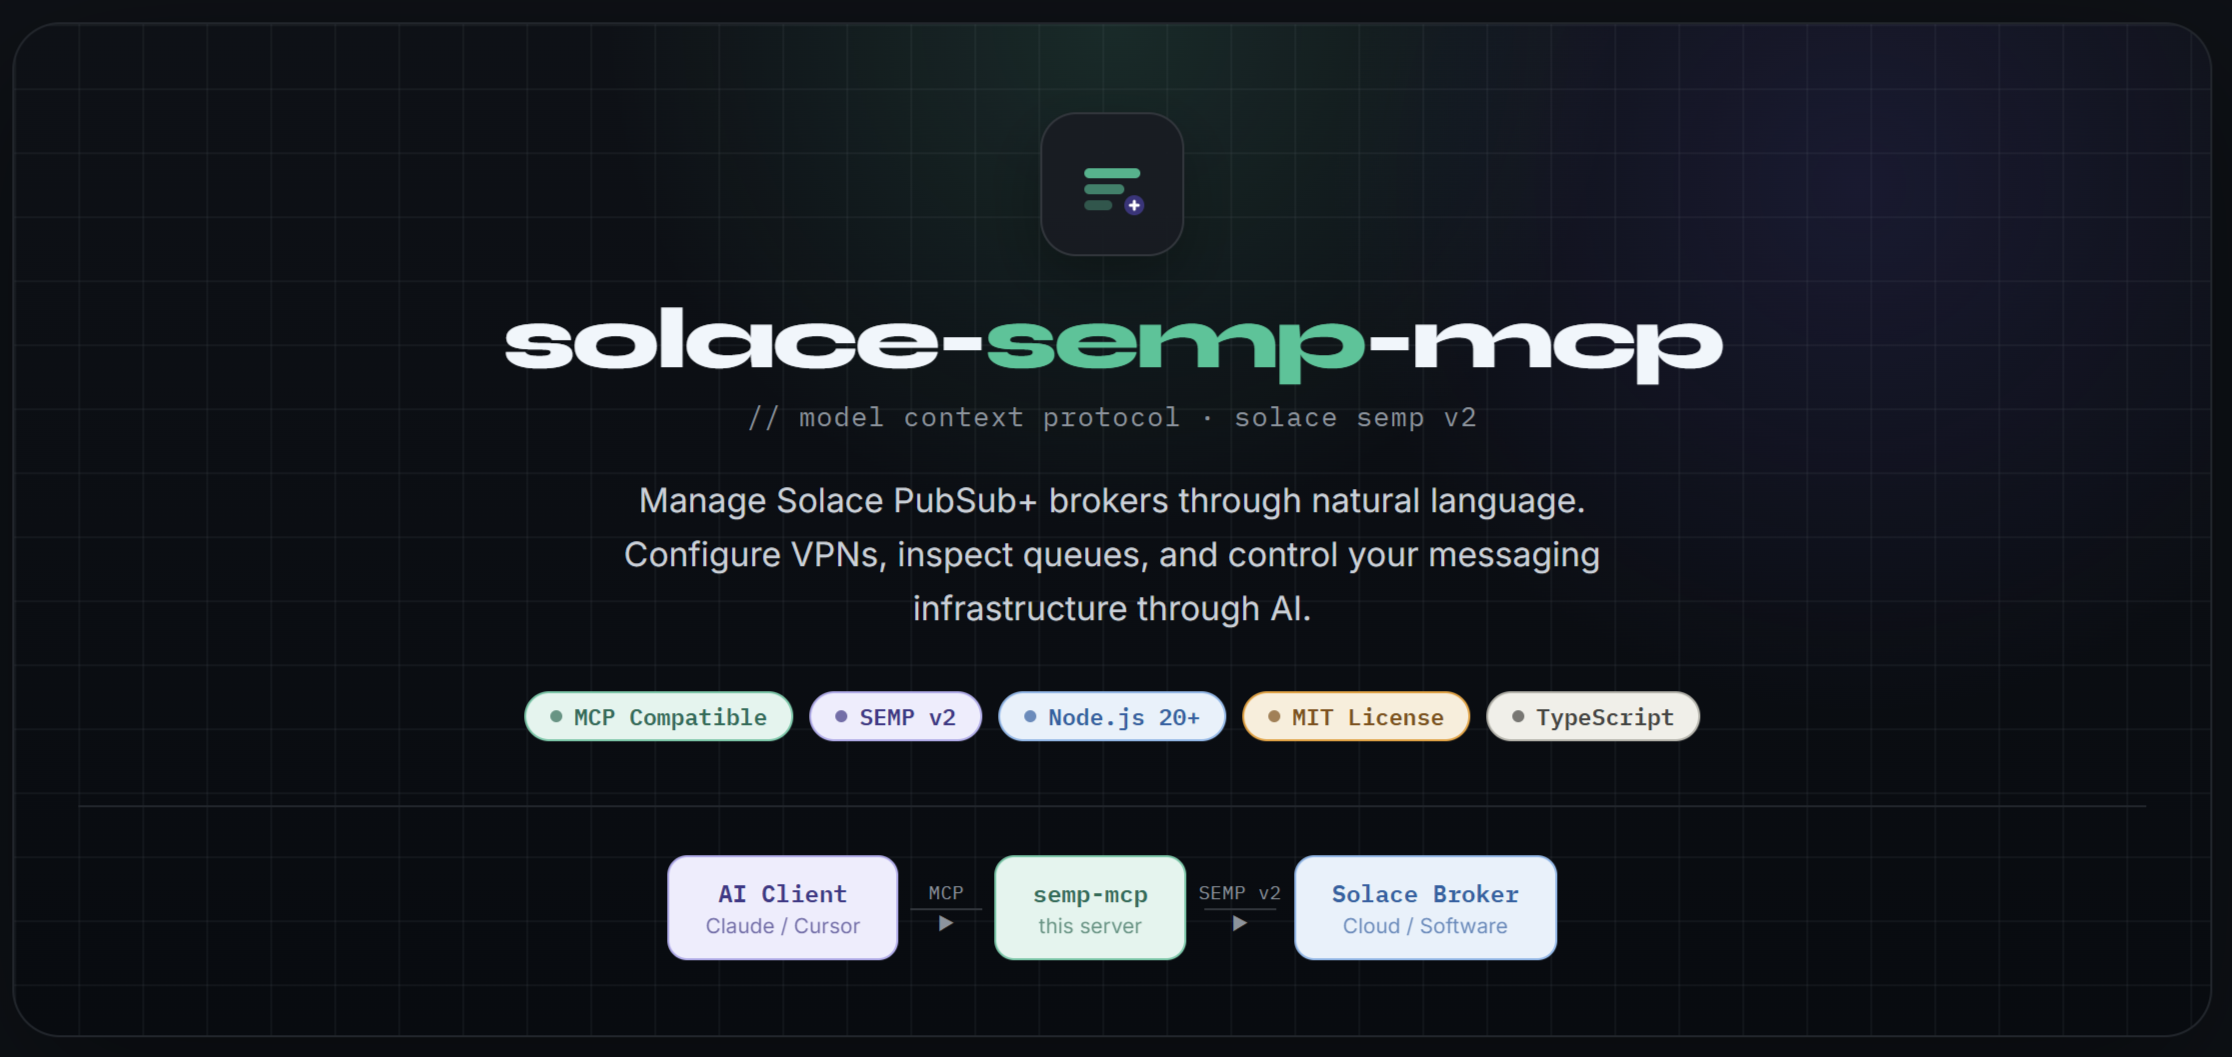
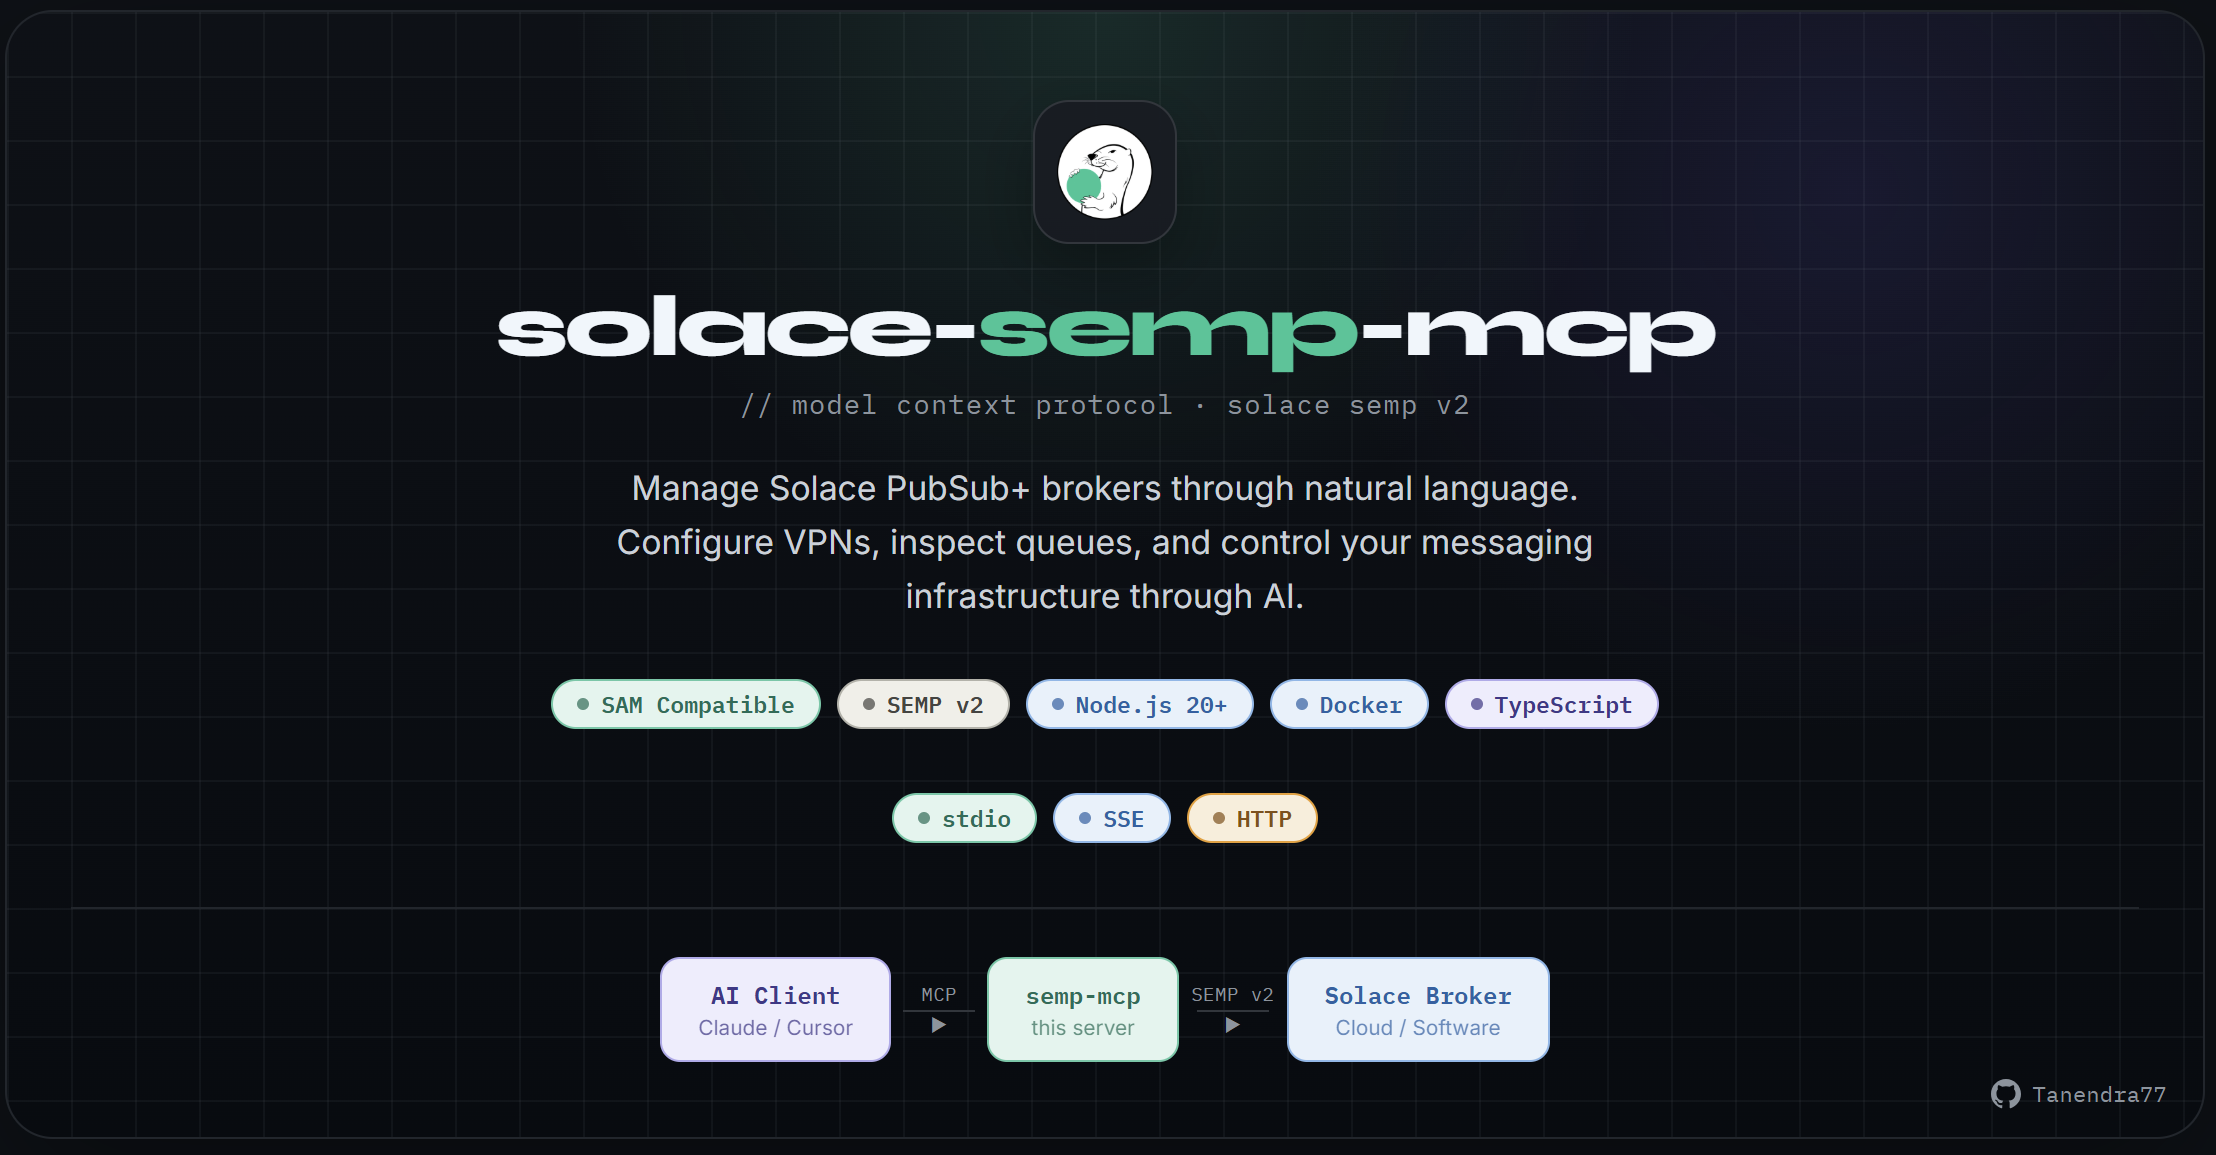
assets: refresh project header artwork

diff --git a/assets/header.html b/assets/header.html
@@ -44,6 +44,23 @@
     box-shadow: 0 12px 30px rgba(0, 0, 0, 0.28);
   }
   .icon-wrap svg { width: 36px; height: 36px; }
+  .icon-wrap .solly-pang { width: 48px; height: 48px; object-fit: contain; }
+  .gh-link {
+    position: absolute;
+    bottom: 14px;
+    right: 18px;
+    z-index: 2;
+    display: inline-flex;
+    align-items: center;
+    gap: 6px;
+    color: #8b949e;
+    font-family: 'IBM Plex Mono', monospace;
+    font-size: 0.7rem;
+    text-decoration: none;
+    transition: color 0.18s;
+  }
+  .gh-link:hover { color: #f0f6fc; }
+  .gh-link svg { width: 15px; height: 15px; fill: currentColor; }
   h1 {
     position: relative;
     z-index: 1;
@@ -165,23 +182,22 @@
 <div class="hero">
   <div class="grid-bg"></div>
   <div class="icon-wrap">
-    <svg viewBox="0 0 36 36" fill="none" xmlns="http://www.w3.org/2000/svg">
-      <rect x="4" y="10" width="28" height="5" rx="2.5" fill="#00C895" opacity=".9"/>
-      <rect x="4" y="18" width="20" height="5" rx="2.5" fill="#00C895" opacity=".6"/>
-      <rect x="4" y="26" width="14" height="5" rx="2.5" fill="#00C895" opacity=".35"/>
-      <circle cx="29" cy="28.5" r="5" fill="#3C3489" opacity=".9"/>
-      <path d="M27 28.5h4M29 26.5v4" stroke="white" stroke-width="1.5" stroke-linecap="round"/>
-    </svg>
+    <img class="solly-pang" src="solly-logo.png" alt="Solly" />
   </div>
   <h1>solace-<span>semp</span>-mcp</h1>
   <div class="mono">// model context protocol · solace semp v2</div>
   <p class="tagline">Manage Solace PubSub+ brokers through natural language. Configure VPNs, inspect queues, and control your messaging infrastructure through AI.</p>
   <div class="badges">
-    <span class="badge green"><span class="dot"></span>MCP Compatible</span>
-    <span class="badge purple"><span class="dot"></span>SEMP v2</span>
+    <span class="badge green"><span class="dot"></span>SAM Compatible</span>
+    <span class="badge gray"><span class="dot"></span>SEMP v2</span>
     <span class="badge blue"><span class="dot"></span>Node.js 20+</span>
-    <span class="badge amber"><span class="dot"></span>MIT License</span>
-    <span class="badge gray"><span class="dot"></span>TypeScript</span>
+    <span class="badge blue"><span class="dot"></span>Docker</span>
+    <span class="badge purple"><span class="dot"></span>TypeScript</span>
+  </div>
+  <div class="badges">
+    <span class="badge green"><span class="dot"></span>stdio</span>
+    <span class="badge blue"><span class="dot"></span>SSE</span>
+    <span class="badge amber"><span class="dot"></span>HTTP</span>
   </div>
   <div class="arch">
     <div class="node ai">AI Client<div class="node-sub">Claude / Cursor</div></div>
@@ -190,4 +206,8 @@
     <div class="arrow"><div class="arrow-label">SEMP v2</div><div class="arrow-line"></div><div class="arrow-head">▶</div></div>
     <div class="node broker">Solace Broker<div class="node-sub">Cloud / Software</div></div>
   </div>
+  <a class="gh-link" href="https://github.com/Tanendra77" target="_blank" rel="noopener">
+    <svg viewBox="0 0 24 24" xmlns="http://www.w3.org/2000/svg"><path d="M12 0C5.37 0 0 5.37 0 12c0 5.3 3.438 9.8 8.205 11.385.6.113.82-.258.82-.577 0-.285-.01-1.04-.015-2.04-3.338.724-4.042-1.61-4.042-1.61-.546-1.385-1.335-1.755-1.335-1.755-1.087-.744.084-.729.084-.729 1.205.084 1.838 1.236 1.838 1.236 1.07 1.835 2.809 1.305 3.495.998.108-.776.417-1.305.76-1.605-2.665-.3-5.466-1.332-5.466-5.93 0-1.31.465-2.38 1.235-3.22-.135-.303-.54-1.523.105-3.176 0 0 1.005-.322 3.3 1.23.96-.267 1.98-.399 3-.405 1.02.006 2.04.138 3 .405 2.28-1.552 3.285-1.23 3.285-1.23.645 1.653.24 2.873.12 3.176.765.84 1.23 1.91 1.23 3.22 0 4.61-2.805 5.625-5.475 5.92.42.36.81 1.096.81 2.22 0 1.606-.015 2.896-.015 3.286 0 .315.21.69.825.57C20.565 21.795 24 17.295 24 12c0-6.63-5.37-12-12-12z"/></svg>
+    Tanendra77
+  </a>
 </div>
